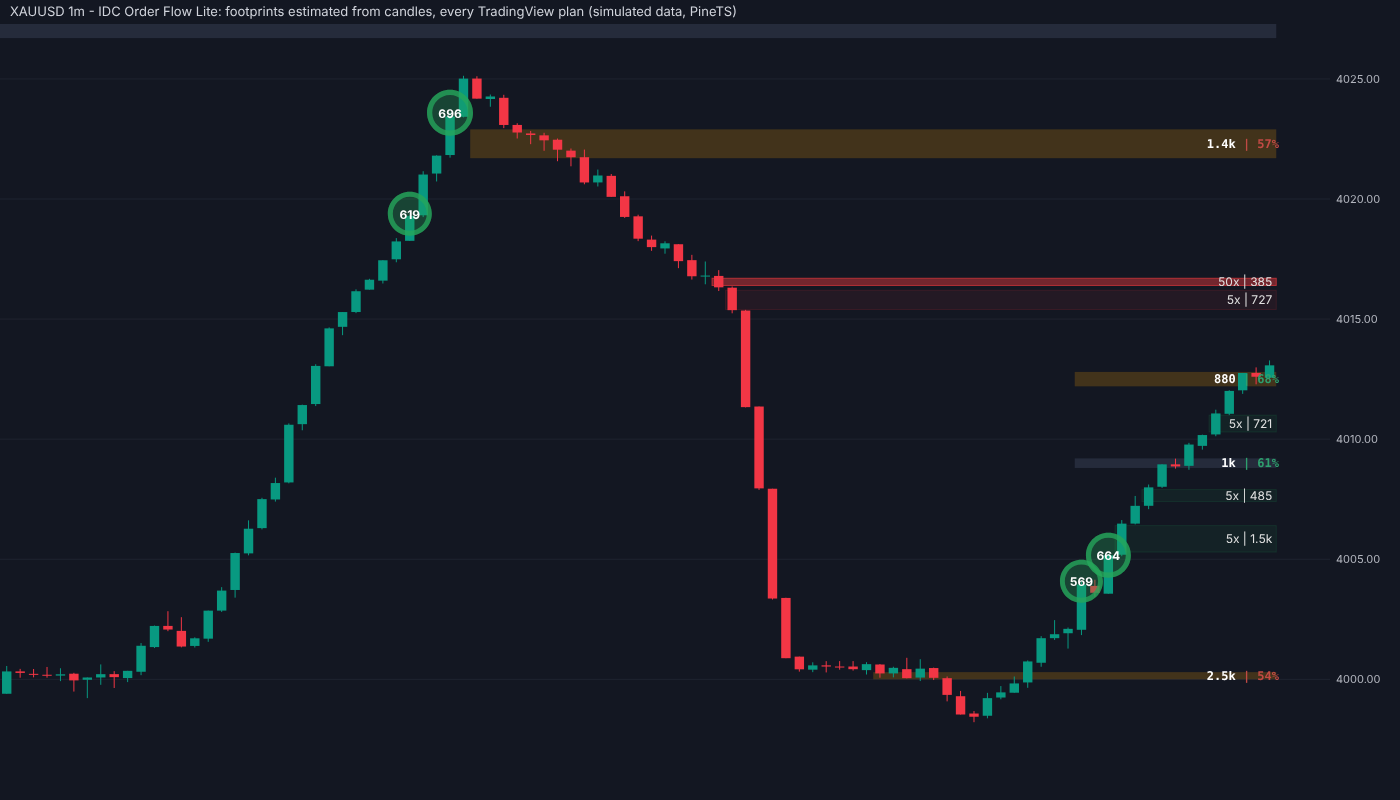
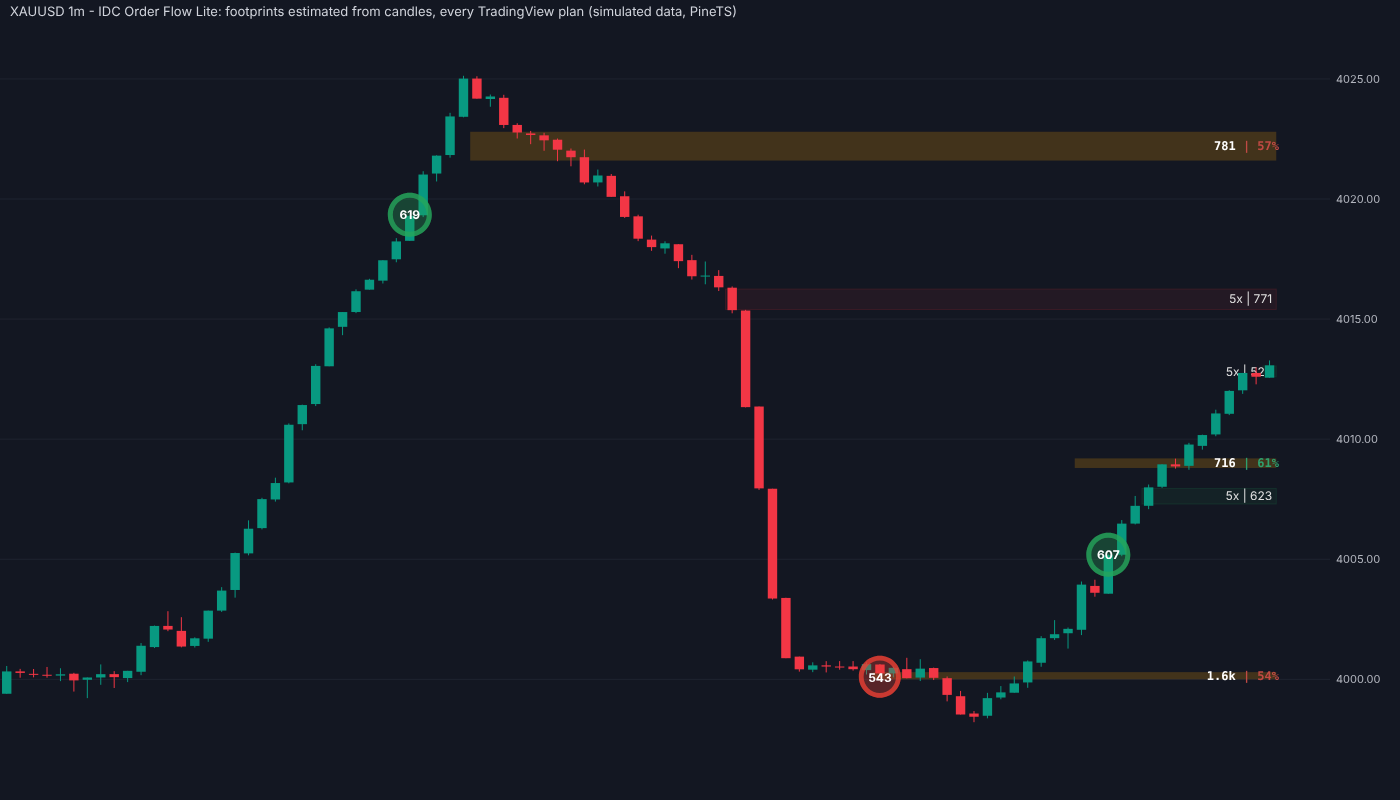
TradingView: share the candles' price scale; Lite rows from the chart, fewer zones
On BTCUSDT the chart showed a second right price scale (B) for IDC Lite:
scale = scale.right gave the script a new right scale instead of the
candles' one, so its zones still moved on their own. No script names a
scale now: an overlay script without plots shares the candles' price
scale. QUAL-02 checks for no plot and no scale argument.

Lite rows: 1/20 of the average range of the chart's last 100 bars, set
once a day (BTCUSDT 1m got $2.5 rows from the daily range where its bars
were about $10 tall; the status asked for 0.5). LITE-05 checks a lively
then a quiet day.

Lite defaults for a clear chart: at most 20 imbalance and 12 HVN zones,
one node (the largest) per profile, touched zones removed.

Claude-Session: https://claude.ai/code/session_01XsLk3e7DmN9rG6Lj99pCZr

diff --git a/tools/build_suite.py b/tools/build_suite.py
@@ -247,28 +247,27 @@ if volume > 0 and estK1 - estK0 + 1 <= 2000
 
 # Lite: rows of about 1/20 of a typical bar of the chart, from the symbol's own daily range (any symbol, any timeframe;
 # no "simple" row size needed without request.footprint)
-LITE_ROWS = """// Lite: rows of about 1/20 of a typical bar of this chart, from the daily range of the previous days (works for any
-// symbol and timeframe); the first day, without a previous day, uses the automatic size above.
-float estDayRange = timeframe.in_seconds() < 86400 ?
-     request.security(syminfo.tickerid, "D", nz(ta.sma(high - low, 5), high - low)[1], lookahead = barmerge.lookahead_on) : na
-float estBarRange = timeframe.in_seconds() < 86400 ? estDayRange * math.sqrt(timeframe.in_seconds() / 86400) :
-     nz(ta.sma(high - low, 20), high - low)
-float estRaw  = estBarRange / 20
-float estMag  = math.pow(10, math.floor(math.log10(estRaw)))
-float estF    = estRaw / estMag
-int   estAuto = na(estRaw) or estRaw <= 0 ? autoRow :
-     math.max(1, int(math.round((estF < 1.5 ? 1.0 : estF < 2.25 ? 2.0 : estF < 3.5 ? 2.5 : estF < 7.5 ? 5.0 : 10.0) * estMag / syminfo.mintick)))
-int rowTicks = rowTicksInput > 0 ? rowTicksInput : estAuto
+LITE_ROWS = """// Lite: rows of about 1/20 of a typical bar of this chart (the average range of its last 100 bars), on any symbol
+// and timeframe. Set once a day, so the rows stay the same through the day; before 100 bars, the automatic size above.
+float estTypRange = ta.sma(high - low, 100)
+bool  estNewDay   = ta.change(time("D")) != 0
+var int estRow = na
+if estTypRange > 0 and (na(estRow) or estNewDay)
+    float dRaw = estTypRange / 20
+    float dMag = math.pow(10, math.floor(math.log10(dRaw)))
+    float dF   = dRaw / dMag
+    estRow := math.max(1, int(math.round((dF < 1.5 ? 1.0 : dF < 2.25 ? 2.0 : dF < 3.5 ? 2.5 : dF < 7.5 ? 5.0 : 10.0) * dMag / syminfo.mintick)))
+int rowTicks = rowTicksInput > 0 ? rowTicksInput : nz(estRow, autoRow)
 """
 
-# Lite: a clean chart on every timeframe (the estimate makes more, smaller signals than real footprints): touched zones
-# go away, fewer zones and nodes
+# Lite: a clear chart on every timeframe (the estimate makes more, smaller signals than real footprints): touched zones
+# go away, only the newest zones stay, one node (the largest) per profile
 LITE_DEFAULTS = [
     (r'(bool\s+imbKeepTouchedInput\s*=\s*input\.bool\()true', r'\1false'),
     (r'(bool\s+hvnKeepTouchedInput\s*=\s*input\.bool\()true', r'\1false'),
-    (r'input\.int\(250, "Max zones on chart", minval = 10, maxval = 300', 'input.int(60, "Max zones on chart", minval = 10, maxval = 300'),
-    (r'input\.int\(100, "Max zones on chart", minval = 10, maxval = 100', 'input.int(40, "Max zones on chart", minval = 10, maxval = 100'),
-    (r'input\.int\(3, "Max clusters per period"', 'input.int(2, "Max clusters per period"'),
+    (r'input\.int\(250, "Max zones on chart", minval = 10, maxval = 300', 'input.int(20, "Max zones on chart", minval = 10, maxval = 300'),
+    (r'input\.int\(100, "Max zones on chart", minval = 10, maxval = 100', 'input.int(12, "Max zones on chart", minval = 10, maxval = 100'),
+    (r'input\.int\(3, "Max clusters per period"', 'input.int(1, "Max clusters per period"'),
 ]
 
 
@@ -329,8 +328,8 @@ def main():
 // Needs TradingView volume footprint data (request.footprint: Premium or Ultimate plan). Without such a plan, use
 // IDC_OrderFlow_Lite.pine: the same tools on footprints estimated from candles, for every plan.
 // GENERATED by tools/build_suite.py from the four single-tool scripts in this folder: edit those, then run the build.
-indicator("IDC Order Flow", "IDC", overlay = true, scale = scale.right, max_boxes_count = 500, max_labels_count = 500,
-     max_lines_count = 500, max_polylines_count = 100)
+indicator("IDC Order Flow", "IDC", overlay = true, max_boxes_count = 500, max_labels_count = 500, max_lines_count = 500,
+     max_polylines_count = 100)
 // HVN zones start at their period's first bar (up to 5000 bars back)
 max_bars_back(time, 5000)
 

diff --git a/TradingView/README.md b/TradingView/README.md
@@ -33,6 +33,8 @@ FundedNext Futures resmi mendukung TradingView sebagai platform trading. Jadi ch
 
 ## Cara pasang
 
+> **Kalau gambar indikator tidak ikut bergeser bersama candle** (ada skala harga kedua di kanan, atau zona berada jauh dari candle): TradingView menyimpan skala dari versi lama script. Hapus indikatornya dari chart, lalu tambahkan lagi dari *Indicators → My scripts*. Bisa juga lewat menu **⋯ → Pin to scale** di nama indikator, lalu pilih skala yang sama dengan candle.
+
 1. Buka chart di TradingView, klik **Pine Editor** di bawah.
 2. Buka menu nama script di kiri atas Pine Editor, pilih **Create new → Indicator**, lalu hapus semua isinya.
 3. Buka `IDC_OrderFlow.pine` (Premium/Ultimate) atau `IDC_OrderFlow_Lite.pine` (paket lain), salin **semua** isinya, lalu tempel di Pine Editor.
@@ -85,7 +87,7 @@ Keempat indikator bisa dipakai di semua pair crypto yang punya data volume di Tr
 
 **Chart tetap bersih di semua timeframe** (default Lite):
 - Zona Imbalance dan HVN yang sudah disentuh harga **dihapus**. Yang tersisa hanya zona yang masih berlaku. Untuk menampilkannya lagi, nyalakan *Keep touched zones*.
-- Paling banyak 60 zona Imbalance, 40 zona HVN, dan 2 node HVN per profil.
+- Hanya zona terbaru yang tampil: paling banyak 20 zona Imbalance dan 12 zona HVN, dengan satu node (yang terbesar) per profil HVN. Semuanya bisa dinaikkan di setting (*Max zones on chart*, *Max clusters per period*).
 - **Panjang profil HVN otomatis** mengikuti timeframe chart, sekitar 15–25 bar per profil:
 
   | Chart | Profil |
@@ -99,7 +101,7 @@ Keempat indikator bisa dipakai di semua pair crypto yang punya data volume di Tr
   | 1 hari | 1 bulan |
 
   Matikan *Auto profile timeframe* untuk memilih sendiri.
-- **Ukuran baris otomatis dari range harian** simbol itu sendiri, sekitar 20 baris per candle biasa. Ini berlaku untuk semua simbol (emas, indeks, forex, crypto) dan semua timeframe. Hari pertama di chart memakai ukuran bawaan.
+- **Ukuran baris otomatis dari candle chart itu sendiri**, sekitar 1/20 dari range rata-rata 100 candle terakhir. Ukuran ini diperbarui sekali sehari, jadi sama sepanjang hari. Ini berlaku untuk semua simbol (emas, indeks, forex, crypto) dan semua timeframe. Sebelum ada 100 candle, dipakai ukuran bawaan.
 
 **Setting *Intrabars*** (grup *Data (Lite)*): candle yang lebih kecil di dalam setiap bar memberi perkiraan yang lebih halus.
 - *Auto*: 1 menit untuk chart sampai 1 jam, 5 menit sampai 4 jam, dan seterusnya. Di chart 1 menit ke bawah dipakai candle chart itu sendiri.
@@ -153,11 +155,11 @@ Script diuji dengan [PineTS](https://github.com/LuxAlgo/PineTS) (runtime Pine Sc
 - tipe data: TradingView hanya menerima ukuran baris yang sudah pasti saat script dimuat (*simple int*). PineTS tidak memeriksa ini, jadi ada tes khusus yang memastikan ukuran baris di kelima file dihitung di level atas script hanya dengan fungsi bawaan. Fungsi buatan sendiri tidak dipakai di situ, karena Pine menganggap parameternya *series*. Bagian itu juga tidak memakai `switch`, `if`, loop, `:=`, `var`, atau data bar;
 - live: kotak/node/garis putus-putus selama bar berjalan yang menjadi permanen saat close, dan alert live Heavy Absorption;
 - IDC Order Flow: dengan satu alat menyala hasilnya sama persis dengan file terpisahnya. Dengan semua menyala, hasilnya sama dengan gabungan keempatnya (NQ dan Bitcoin). Skenario realtime juga dijalankan pada IDC Order Flow (`--suite`).
-- semua script tanpa plot dan terpasang di skala harga kanan, supaya gambar selalu menempel di candle;
+- semua script tanpa plot dan tanpa pengaturan skala sendiri, supaya gambarnya memakai skala harga candle dan ikut bergeser bersamanya;
 - IDC Order Flow Lite:
   - tidak memakai `request.footprint()` dan menggambar keempat alat tanpa data footprint;
-  - ukuran baris dari range harian, juga di simbol tanpa base currency;
-  - default bersih: hanya zona yang belum tersentuh, jumlah zona dibatasi, 2 node per profil;
+  - ukuran baris dari candle chart (1/20 range rata-rata), diperbarui sekali sehari, juga di simbol tanpa base currency;
+  - default bersih: hanya zona yang belum tersentuh, paling banyak 20 zona Imbalance dan 12 zona HVN, satu node per profil;
   - perkiraan satu candle naik kuat menghasilkan zona beli tepat di badannya;
   - intrabar membuat zona HVN lebih dekat ke footprint asli;
   - realtime sama dengan history.
